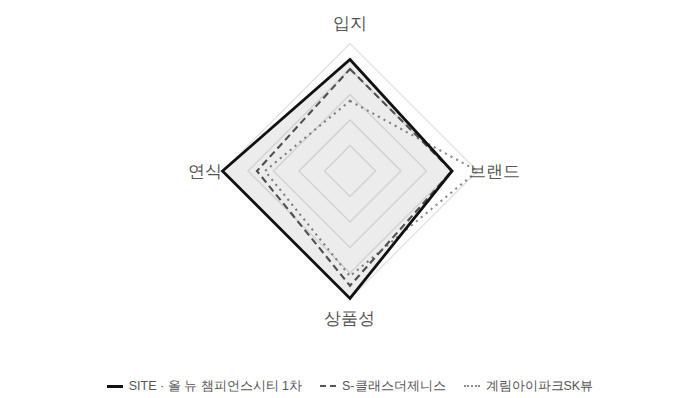
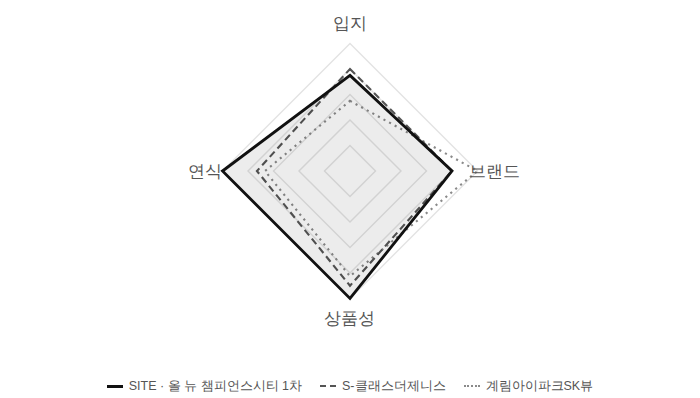
올 뉴 챔피언스시티 1차 입지 점수 최종 조정 (35→30) — 재산출
랜드마크급 인프라 반영을 더 보수적으로 잡아 입지 점수를 15점에서
30점(35점 아님)으로 최종 확정. 종합평점 91→86으로 낮아지면서
S-클래스더제니스(32점)가 다시 근소하게 입지 우위를 유지.

재계산 결과 적정가 7.91억→7.55억, 예상 프리미엄 -0.12억→-0.48억
(고평가 약 2%→6%)로, "사실상 적정가"에서 "소폭 고평가"로 결론 조정.
표·설명·레이더·브릿지 차트·강점/리스크·결론 문단 전부 갱신. 네이버
복사용 PNG 재캡처, 관련 포스팅 3건 동기화.

Claude-Session: https://claude.ai/code/session_014bA9ezyn55FbTPVbxFkuZW

Changed region(s): [[0.33, 0.1508, 0.63, 0.4221], [0.63, 0.392, 0.66, 0.4221]]

diff --git a/posts/allnew-champions-city-1cha.html b/posts/allnew-champions-city-1cha.html
@@ -200,7 +200,7 @@
 <div class="wrap">
 
   <div class="titleblock">
-    <h1>광주 - 올 뉴 챔피언스시티 1차 | 옛 방직공장 부지 최고 49층 3,216세대, 예상 프리미엄은 -1천만</h1>
+    <h1>광주 - 올 뉴 챔피언스시티 1차 | 옛 방직공장 부지 최고 49층 3,216세대, 예상 프리미엄은 -0.5억</h1>
   </div>
   <div class="byline">
     <span class="avatar">브</span>
@@ -226,17 +226,17 @@
     <div class="stat-pair">
       <div class="stat-box">
         <div class="sk">브동산 적정가 (84㎡)</div>
-        <div class="sv">7.91<span style="font-size:15px;font-weight:400;"> 억원</span></div>
-        <div class="sbar"><div style="width:98%"></div></div>
+        <div class="sv">7.55<span style="font-size:15px;font-weight:400;"> 억원</span></div>
+        <div class="sbar"><div style="width:94%"></div></div>
       </div>
       <div class="stat-box">
         <div class="sk">실제 분양가 (84A, 공개범위 중간값)</div>
         <div class="sv">8.03<span style="font-size:15px;font-weight:400;"> 억원</span></div>
         <div class="sbar"><div style="width:100%"></div></div>
-        <span class="delta">약 2% 고평가</span>
+        <span class="delta">약 6% 고평가</span>
       </div>
     </div>
-    <p class="premium" style="margin-top:-8px;">예상 프리미엄 -0.12억</p>
+    <p class="premium" style="margin-top:-8px;">예상 프리미엄 -0.48억</p>
 
     <div class="map-wrap">
       <svg viewBox="0 0 640 460" role="img" aria-label="올 뉴 챔피언스시티 1차 사업지, 비교단지 2곳, 배정초등학교, 주요 시설 위치를 나타낸 브동산 자체 제작 개략도">
@@ -315,7 +315,7 @@
         </g>
         <polygon points="120.00,70.50 210.00,120.00 120.00,194.25 60.00,120.00" fill="none" stroke="#8A8A8A" stroke-width="1.5" stroke-dasharray="1.5 3"/>
         <polygon points="120.00,48.00 192.00,120.00 120.00,201.00 54.30,120.00" fill="none" stroke="#555555" stroke-width="1.5" stroke-dasharray="5 3"/>
-        <polygon points="120.00,41.25 192.00,120.00 120.00,210.00 30.00,120.00" fill="rgba(17,17,17,0.08)" stroke="#111111" stroke-width="2"/>
+        <polygon points="120.00,52.50 192.00,120.00 120.00,210.00 30.00,120.00" fill="rgba(17,17,17,0.08)" stroke="#111111" stroke-width="2"/>
         <text x="120" y="20" text-anchor="middle" font-size="12" fill="#555555">입지</text>
         <text x="222" y="124" text-anchor="middle" font-size="12" fill="#555555">브랜드</text>
         <text x="120" y="228" text-anchor="middle" font-size="12" fill="#555555">상품성</text>
@@ -331,28 +331,29 @@
     <div class="bridge-wrap">
 <svg viewBox="0 0 640 310" role="img" aria-label="비교단지 현재시세가 평점·연령 보정을 거쳐 SITE 적정가로 이어지는 과정을 보여주는 브동산 적정가 산출 브릿지 차트">
 <rect x="0" y="0" width="640" height="310" fill="#FAFAFA"/>
-<line x1="496.58" y1="20" x2="496.58" y2="219" stroke="#BBBBBB" stroke-width="1" stroke-dasharray="3 3"/>
+<line x1="462.97" y1="20" x2="462.97" y2="219" stroke="#BBBBBB" stroke-width="1" stroke-dasharray="3 3"/>
 <text x="0" y="36.00" font-size="12.5" font-weight="800" fill="#111111">임동 S-클래스더제니스</text>
-<text x="431.02" y="52.00" text-anchor="middle" font-size="10.5" fill="#8A8A8A">평점·연령 ×1.128</text>
-<line x1="390.10" y1="66.00" x2="471.93" y2="66.00" stroke="#555555" stroke-width="1.5"/>
+<text x="414.09" y="52.00" text-anchor="middle" font-size="10.5" fill="#8A8A8A">평점·연령 ×1.075</text>
+<line x1="390.10" y1="66.00" x2="438.07" y2="66.00" stroke="#555555" stroke-width="1.5"/>
 <circle cx="390.10" cy="66.00" r="5.5" fill="#FFFFFF" stroke="#555555" stroke-width="2"/>
-<rect x="466.93" y="61.00" width="10" height="10" fill="#111111"/>
-<polygon points="466.93,66.00 458.93,63.00 458.93,69.00" fill="#555555"/>
-<text x="380.10" y="84.00" text-anchor="end" font-size="11" font-weight="400" fill="#8A8A8A">6.78억</text><text x="481.93" y="84.00" text-anchor="start" font-size="11" font-weight="700" fill="#111111">7.65억</text>
+<rect x="433.07" y="61.00" width="10" height="10" fill="#111111"/>
+<polygon points="433.07,66.00 425.07,63.00 425.07,69.00" fill="#555555"/>
+<text x="380.10" y="84.00" text-anchor="end" font-size="11" font-weight="400" fill="#8A8A8A">6.78억</text><text x="448.07" y="84.00" text-anchor="start" font-size="11" font-weight="700" fill="#111111">7.29억</text>
 <text x="0" y="122.00" font-size="12.5" font-weight="800" fill="#111111">계림아이파크SK뷰</text>
-<text x="447.00" y="138.00" text-anchor="middle" font-size="10.5" fill="#8A8A8A">평점·연령 ×1.237</text>
-<line x1="372.77" y1="152.00" x2="521.22" y2="152.00" stroke="#555555" stroke-width="1.5"/>
+<text x="430.32" y="138.00" text-anchor="middle" font-size="10.5" fill="#8A8A8A">평점·연령 ×1.184</text>
+<line x1="372.77" y1="152.00" x2="487.86" y2="152.00" stroke="#555555" stroke-width="1.5"/>
 <circle cx="372.77" cy="152.00" r="5.5" fill="#FFFFFF" stroke="#555555" stroke-width="2"/>
-<rect x="516.22" y="147.00" width="10" height="10" fill="#111111"/>
-<polygon points="516.22,152.00 508.22,149.00 508.22,155.00" fill="#555555"/>
-<text x="362.77" y="170.00" text-anchor="end" font-size="11" font-weight="400" fill="#8A8A8A">6.6억</text><text x="531.22" y="170.00" text-anchor="start" font-size="11" font-weight="700" fill="#111111">8.17억</text>
+<rect x="482.86" y="147.00" width="10" height="10" fill="#111111"/>
+<polygon points="482.86,152.00 474.86,149.00 474.86,155.00" fill="#555555"/>
+<text x="362.77" y="170.00" text-anchor="end" font-size="11" font-weight="400" fill="#8A8A8A">6.6억</text><text x="497.86" y="170.00" text-anchor="start" font-size="11" font-weight="700" fill="#111111">7.81억</text>
 <line x1="0" y1="194" x2="640" y2="194" stroke="#E3E3E3" stroke-width="1"/>
 <text x="0" y="218" font-size="12.5" font-weight="800" fill="#111111">올 뉴 챔피언스시티 1차 (SITE)</text>
-<text x="502.44" y="234" text-anchor="middle" font-size="11" font-weight="800" fill="#111111">예상 프리미엄 -0.12억</text>
-<line x1="496.58" y1="248" x2="508.30" y2="248" stroke="#111111" stroke-width="2"/>
+<text x="485.64" y="234" text-anchor="middle" font-size="11" font-weight="800" fill="#111111">예상 프리미엄 -0.48억</text>
+<line x1="462.97" y1="248" x2="508.30" y2="248" stroke="#111111" stroke-width="2"/>
 <circle cx="508.30" cy="248" r="5.5" fill="#FFFFFF" stroke="#111111" stroke-width="2"/>
-<path d="M 490.58 248 L 496.58 242 L 502.58 248 L 496.58 254 Z" fill="#111111"/>
-<text x="482.58" y="270" text-anchor="end" font-size="11" font-weight="800" fill="#111111">적정가 7.91억</text>
+<path d="M 456.97 248 L 462.97 242 L 468.97 248 L 462.97 254 Z" fill="#111111"/>
+<polygon points="468.97,248.00 476.97,245.00 476.97,251.00" fill="#111111"/>
+<text x="452.97" y="270" text-anchor="end" font-size="11" font-weight="800" fill="#111111">적정가 7.55억</text>
 <text x="518.30" y="270" text-anchor="start" font-size="11" font-weight="400" fill="#8A8A8A">실제분양가 8.03억</text>
 <text x="0" y="298" font-size="10.5" fill="#8A8A8A">○=현재시세/실제분양가 · ■=평점·연령 보정 후 보정가격 · ◆=SITE 적정가(두 보정가격 평균) · 점선=적정가 기준선 · ▶=보정·산출 방향(현재시세→보정가격, 분양가→적정가)</text>
 </svg>
@@ -363,27 +364,27 @@
       <table>
         <thead><tr><th>평가 항목</th><th>SITE · 올뉴챔피언스시티1차<br><span class="note" style="margin-top:2px;">(우미건설·신영씨앤디·3,216세대·2030년 11월 입주예정)</span></th><th>S-클래스더제니스<br><span class="note" style="margin-top:2px;">(중흥토건+두산건설·2,240세대·2024년 2월 입주)</span></th><th>계림아이파크SK뷰<br><span class="note" style="margin-top:2px;">(HDC현대산업개발+SK에코플랜트·1,715세대·2022년 7월 입주)</span></th></tr></thead>
         <tbody>
-          <tr><td>입지(40)</td><td class="figure">35</td><td class="figure">32</td><td class="figure">22</td></tr>
+          <tr><td>입지(40)</td><td class="figure">30</td><td class="figure">32</td><td class="figure">22</td></tr>
           <tr><td>브랜드(20)</td><td class="figure">16</td><td class="figure">16</td><td class="figure">20</td></tr>
           <tr><td>상품성(40)</td><td class="figure">40</td><td class="figure">36</td><td class="figure">33</td></tr>
-          <tr><td>종합평점</td><td class="figure"><b>91</b></td><td class="figure">84</td><td class="figure">75</td></tr>
+          <tr><td>종합평점</td><td class="figure"><b>86</b></td><td class="figure">84</td><td class="figure">75</td></tr>
           <tr><td>연식가산율</td><td class="figure">기준(입주예정)</td><td class="figure">6년9개월차·×1.054</td><td class="figure">8년4개월차·×1.067</td></tr>
           <tr><td>84㎡ 기준가</td><td class="figure">-</td><td class="figure">6.78억(2026.8~9 실거래 5건 평균)</td><td class="figure">6.6억(리치고 34평형 시세, 2026.09.28 확인)</td></tr>
-          <tr><td>보정가격</td><td class="figure">-</td><td class="figure">7.65억</td><td class="figure">8.17억</td></tr>
+          <tr><td>보정가격</td><td class="figure">-</td><td class="figure">7.29억</td><td class="figure">7.81억</td></tr>
         </tbody>
       </table>
     </div>
     <p class="note">평점은 브동산이 교통·주거·교육 여건과 브랜드·세대수·조망·주차 등을 종합해 자체 산정한 값입니다. SITE(우미건설·신영씨앤디)와 S-클래스더제니스(중흥토건+두산건설)는 브동산 브랜드 등급상 '대기업 중위'로 동일하게 평가했고, 계림아이파크SK뷰(HDC현대산업개발+SK에코플랜트)는 '아이파크'·'SK뷰' 모두 '대기업 상위'에 해당해 더 높게(20점) 평가했습니다. 84㎡ 기준가는 S-클래스더제니스는 호갱노노·국토교통부 실거래가(2026.09.27 확인), 계림아이파크SK뷰는 리치고(richgo.ai) 평형별 시세(34평형, 2026.09.28 확인)를 인용했으며, SITE 분양가는 84A 타입의 공개된 분양가 범위(7.35억~8.70억)의 중간값입니다. 전남광주는 행정상 '전남광주통합특별시'로 표기되지만, 브동산 평점 체계에서는 종전 광주광역시와 동일한 '광역시(지하철 중심)' 배점을 적용했습니다.</p>
 
     <ul class="plain">
-      <li><b>입지:</b> SITE는 서림초등학교를 도보 7분(458m)에 이용할 수 있고 신세계·이마트 광주점도 차량 4분 거리지만, 정작 도시철도(양동시장역)까지는 1.3km·도보 19분으로 다소 거리가 있어 원래 낮게 평가했습니다. 다만 같은 부지 안에 헤르초크&amp;드뫼롱이 설계한 '더현대 광주' 백화점과 특급호텔이 함께 들어선다는 점은 단순한 생활 인프라를 넘어 거의 랜드마크급 인프라를 끼고 있는 것으로 판단해, 입지 점수를 15점에서 35점으로 상향 조정했습니다(2026.09.28, 편집 조정). 이 조정으로 역세권에서 앞섰던 같은 임동의 S-클래스더제니스(입지 32점)보다도 SITE의 입지 점수가 근소하게 더 높아졌습니다.</li>
+      <li><b>입지:</b> SITE는 서림초등학교를 도보 7분(458m)에 이용할 수 있고 신세계·이마트 광주점도 차량 4분 거리지만, 정작 도시철도(양동시장역)까지는 1.3km·도보 19분으로 다소 거리가 있어 원래 낮게 평가했습니다. 다만 같은 부지 안에 헤르초크&amp;드뫼롱이 설계한 '더현대 광주' 백화점과 특급호텔이 함께 들어선다는 점은 단순한 생활 인프라를 넘어 거의 랜드마크급 인프라를 끼고 있는 것으로 판단해, 입지 점수를 15점에서 30점으로 상향 조정했습니다(2026.09.28, 편집 조정). 그럼에도 역에서 150m 초역세권인 같은 임동의 S-클래스더제니스(입지 32점)가 여전히 근소하게 앞섭니다.</li>
       <li><b>브랜드:</b> 우미건설·신영씨앤디(SITE)와 중흥토건+두산건설(S-클래스더제니스)은 브동산 등급상 동일한 '대기업 중위'로 평가해 두 곳의 브랜드 점수 차이는 없습니다. 반면 계림아이파크SK뷰는 '아이파크'·'SK뷰' 모두 브동산 등급상 '대기업 상위'에 해당해 오히려 SITE·S-클래스더제니스보다 브랜드 점수가 높습니다(20점).</li>
       <li><b>상품성:</b> SITE는 3,216세대 초대형 규모에 최고 49층 랜드마크, 광주 최대 규모(약 1.2만㎡) 커뮤니티에 더해 같은 챔피언스시티 부지에 더현대 광주와 특급호텔·업무시설까지 함께 들어서는 복합개발이라는 상징성을 반영해 상품성 점수를 40점(만점)으로 상향 조정했습니다(2026.09.28, 편집 조정). 2024년 준공한 S-클래스더제니스는 '광주 첫 하이엔드'를 표방하는 신축 대단지지만 단일 주거단지라는 점에서 SITE보다는 낮게, 2022년 준공한 계림아이파크SK뷰는 1,715세대 대단지 신축이지만 마찬가지로 순수 주거단지라 SITE보다는 낮게 평가했습니다.</li>
-      <li><b>브동산 적정가 기준으로는 사실상 적정가 수준(약 2%, 오차범위 내).</b> 비교단지를 입지·연식이 더 비슷한 계림아이파크SK뷰(2022년 입주, 1,715세대)로 교체해 다시 산출한 결과, S-클래스더제니스·계림아이파크SK뷰 두 곳의 보정가격 평균은 7.91억으로 SITE의 84A 분양가(중간값 8.03억)와 거의 일치합니다.</li>
-      <li><b>실제 청약 성적은 양극화됐습니다.</b> 일반공급 2,932가구 모집에 3,641명이 접수해 평균 1.24대 1을 기록했지만, 84A 타입은 5.47대 1로 흥행한 반면 84C·84E·103B 등 다른 타입은 2순위에서도 미달됐습니다. 브동산 모형상으로는 분양가가 사실상 적정 수준인데도 이런 쏠림·미달이 나타난 걸 보면, 가격 자체보다 다른 요인이 더 크게 작용했을 가능성이 있습니다.</li>
+      <li><b>브동산 적정가 기준으로는 소폭 고평가 신호(약 6%).</b> 비교단지를 입지·연식이 더 비슷한 계림아이파크SK뷰(2022년 입주, 1,715세대)로 교체해 다시 산출한 결과, S-클래스더제니스·계림아이파크SK뷰 두 곳의 보정가격 평균은 7.55억으로 SITE의 84A 분양가(중간값 8.03억)보다 다소 낮습니다.</li>
+      <li><b>실제 청약 성적은 양극화됐습니다.</b> 일반공급 2,932가구 모집에 3,641명이 접수해 평균 1.24대 1을 기록했지만, 84A 타입은 5.47대 1로 흥행한 반면 84C·84E·103B 등 다른 타입은 2순위에서도 미달됐습니다. 브동산 모형상 소폭 고평가 신호와 '쏠림·미달 혼재'라는 실제 청약 결과가 같은 방향을 가리키고 있습니다.</li>
     </ul>
 
-    <p>종합하면 브동산 모형상으로는 이 단지의 84A 분양가가 비교단지 대비 사실상 적정 수준으로 나타났습니다. 다만 '더현대 광주'라는 대형 상업시설이 같은 부지에 들어선다는 점은 현재의 시세 비교로는 온전히 반영되지 않는 미래 가치이므로, 실제로는 이보다 더 유리한 조건일 가능성도 함께 고려할 필요가 있습니다.</p>
+    <p>종합하면 브동산 모형상으로는 이 단지의 84A 분양가가 비교단지 대비 소폭 높게 책정된 것으로 나타났습니다. 다만 '더현대 광주'라는 대형 상업시설이 같은 부지에 들어선다는 점은 현재의 시세 비교로는 온전히 반영되지 않는 미래 가치이므로, 이 격차를 해석할 때 함께 고려할 필요가 있습니다.</p>
   </section>
 
   <section id="s2">
@@ -507,7 +508,7 @@
 
     <p>임동·인근 매곡동·동림동에는 힐스테이트중외공원2·3블록(각 785·681세대, 2026년 12월 입주예정)과 운암산공원진아리채그랑뷰(414세대, 2026년 10월 입주예정) 등 신축 공급이 비슷한 시기에 몰려 있습니다. 다만 이들은 SITE와 다른 생활권(매곡동·동림동)이라 직접 경쟁 관계로 보기는 어렵습니다. 반면 SITE와 같은 임동 생활권의 S-클래스더제니스(2024년 입주)는 이미 안정적으로 거래되고 있고, 인접한 동구 계림동의 계림아이파크SK뷰(2022년 입주, 1,715세대) 역시 신축 대단지로 자리 잡아 SITE 입주 시점(2030년)까지 비교할 수 있는 시세 기준을 제공합니다.</p>
 
-    <p>실제로 SITE는 평균 1.24대 1로 전체적으로는 미달을 면했지만, 84A(5.47대 1)에만 수요가 몰리고 84C·84E·103B 등 나머지 타입은 2순위에서도 미달됐습니다. 브동산 모형상으로는 분양가가 비교단지 대비 사실상 적정 수준이었는데도 이런 '일부 쏠림·전반 부진'이 나타난 것은, 가격 자체보다 8억원대 후반에 이르는 절대 금액 부담이나 4년 이상 남은 긴 입주 대기 기간 같은 다른 요인이 더 크게 작용했을 가능성을 시사합니다. '더현대 광주' 개점(2028~2029년 목표)이라는 대형 호재가 아직 가격에 온전히 반영되지 않았을 가능성도 함께 고려해야 합니다.</p>
+    <p>실제로 SITE는 평균 1.24대 1로 전체적으로는 미달을 면했지만, 84A(5.47대 1)에만 수요가 몰리고 84C·84E·103B 등 나머지 타입은 2순위에서도 미달됐습니다. 브동산 모형상 소폭 고평가 신호(약 6%)와 이러한 '일부 쏠림·전반 부진'이 같은 방향을 가리키고 있어, 8억원대 후반에 이르는 높은 분양가가 부담 요인으로 작용했을 가능성이 있습니다. 다만 '더현대 광주' 개점(2028~2029년 목표)이라는 대형 호재가 아직 가격에 온전히 반영되지 않았을 가능성도 함께 고려해야 합니다.</p>
   </section>
 
   <section id="s5">
@@ -520,12 +521,12 @@
           <li>서림초등학교 도보 7분, 광주 최대 규모(약 1.2만㎡) 통합 커뮤니티</li>
           <li>84A 타입은 5.47대 1로 청약 흥행, 계약금 부담도 낮음(5%)</li>
           <li>양동3구역·누문구역 재개발과 함께 임동 일대 전체가 재편되는 성장축</li>
-          <li>비교단지 재평가 결과 브동산 모형상 분양가가 사실상 적정 수준(약 2% 차이)</li>
         </ul>
       </div>
       <div class="box">
         <h3>리스크</h3>
         <ul class="plain">
+          <li>브동산 모형상 비교단지 대비 약 6% 고평가 신호</li>
           <li>84C·84E·103B 등 다수 타입이 2순위에서도 미달</li>
           <li>도시철도(양동시장역)까지 1.3km로 도보 접근성은 약함</li>
           <li>입주까지 4년 이상 남은 후분양 이전 단계라, '더현대 광주' 등 호재의 실현 시점 리스크 존재</li>
@@ -533,7 +534,7 @@
         </ul>
       </div>
     </div>
-    <p>종합하면 이 단지는 더현대 광주와 함께 조성되는 초대형 복합개발이라는 상징성이 뚜렷하고, 브동산 모형상으로도 비교단지 대비 분양가가 사실상 적정 수준인 것으로 나타났습니다. 다만 84A를 제외한 타입의 청약 부진은 모형상 가격 신호와는 별개로, 절대 금액 부담이나 긴 입주 대기 기간 같은 다른 요인이 작용했을 가능성을 보여줍니다. 아직 조성 전인 더현대 광주의 미래 가치가 현재의 시세 비교에는 온전히 녹아있지 않다는 점까지 고려하면, 장기적 관점에서는 오히려 여지가 있는 청약으로 볼 수 있습니다.</p>
+    <p>종합하면 이 단지는 더현대 광주와 함께 조성되는 초대형 복합개발이라는 상징성은 뚜렷하지만, 브동산 모형상으로는 비교단지 대비 분양가가 소폭 높게 책정된 것으로 나타났고, 84A를 제외한 타입의 청약 부진도 이를 뒷받침합니다. 다만 아직 조성 전인 더현대 광주의 미래 가치가 현재의 시세 비교에는 온전히 녹아있지 않다는 점도 감안해, 장기적 관점과 단기 고평가 신호를 함께 살펴 신중하게 접근할 필요가 있습니다.</p>
   </section>
 
   <section id="ad">

diff --git a/posts-data.js b/posts-data.js
@@ -156,12 +156,12 @@ const POSTS = [
     category: "realestate",
     region: "광주",
     tag: "청약 언박싱 No.025",
-    title: "광주 - 올 뉴 챔피언스시티 1차 | 옛 방직공장 부지 최고 49층 3,216세대, 예상 프리미엄은 -1천만",
+    title: "광주 - 올 뉴 챔피언스시티 1차 | 옛 방직공장 부지 최고 49층 3,216세대, 예상 프리미엄은 -0.5억",
     date: "2026-09-28",
     dateLabel: "2026. 9. 28",
     url: "posts/allnew-champions-city-1cha.html",
     preview: `
-      <p>광주 북구 임동, 옛 전방·일신방직 공장 부지에 우미건설·신영씨앤디가 짓는 올 뉴 챔피언스시티 1차는 지하 3층~지상 최고 49층, 12개동, 총 3,216세대 규모의 매머드급 복합개발 단지다. 같은 부지에 더현대 광주와 특급호텔·업무시설까지 들어서는 복합개발 상징성을 반영해 상품성 점수를 만점으로, 입지 점수도 15→35점으로 상향 조정했다(2026.09.28). 브동산이 S-클래스더제니스·계림아이파크SK뷰 두 단지의 84㎡ 가격을 보정해 산출한 적정가는 7.91억원으로, 실제 분양가(중간값 8.03억원)와 약 2% 차이(사실상 적정가 수준)였다.</p>
+      <p>광주 북구 임동, 옛 전방·일신방직 공장 부지에 우미건설·신영씨앤디가 짓는 올 뉴 챔피언스시티 1차는 지하 3층~지상 최고 49층, 12개동, 총 3,216세대 규모의 매머드급 복합개발 단지다. 같은 부지에 더현대 광주와 특급호텔·업무시설까지 들어서는 복합개발 상징성을 반영해 상품성 점수를 만점으로, 입지 점수도 15→30점으로 상향 조정했다(2026.09.28). 브동산이 S-클래스더제니스·계림아이파크SK뷰 두 단지의 84㎡ 가격을 보정해 산출한 적정가는 7.55억원으로, 실제 분양가(중간값 8.03억원)보다 약 6% 낮았다.</p>
     `
   },
   {

diff --git a/posts/hoban-summit-pungmu-3.html b/posts/hoban-summit-pungmu-3.html
@@ -576,7 +576,7 @@
       </a>
       <a class="related-item" href="allnew-champions-city-1cha.html">
         <span class="r-tag">청약 언박싱 No.025</span>
-        <span class="r-title">광주 - 올 뉴 챔피언스시티 1차 | 옛 방직공장 부지 최고 49층 3,216세대, 예상 프리미엄은 -1천만</span>
+        <span class="r-title">광주 - 올 뉴 챔피언스시티 1차 | 옛 방직공장 부지 최고 49층 3,216세대, 예상 프리미엄은 -0.5억</span>
       </a>
     </div>
     <div class="list-more"><a class="btn-list" href="https://brandongsan.com/realestate.html">청약·분양 목록 전체보기</a></div>

diff --git a/posts/pentahills-w-1danji.html b/posts/pentahills-w-1danji.html
@@ -614,7 +614,7 @@
       </a>
       <a class="related-item" href="allnew-champions-city-1cha.html">
         <span class="r-tag">청약 언박싱 No.025</span>
-        <span class="r-title">광주 - 올 뉴 챔피언스시티 1차 | 옛 방직공장 부지 최고 49층 3,216세대, 예상 프리미엄은 -1천만</span>
+        <span class="r-title">광주 - 올 뉴 챔피언스시티 1차 | 옛 방직공장 부지 최고 49층 3,216세대, 예상 프리미엄은 -0.5억</span>
       </a>
     </div>
     <div class="list-more"><a class="btn-list" href="https://brandongsan.com/realestate.html">청약·분양 목록 전체보기</a></div>

diff --git a/posts/gimhae-sinmun-central-ipark.html b/posts/gimhae-sinmun-central-ipark.html
@@ -550,7 +550,7 @@
     <div class="related-list">
       <a class="related-item" href="allnew-champions-city-1cha.html">
         <span class="r-tag">청약 언박싱 No.025</span>
-        <span class="r-title">광주 - 올 뉴 챔피언스시티 1차 | 옛 방직공장 부지 최고 49층 3,216세대, 예상 프리미엄은 -1천만</span>
+        <span class="r-title">광주 - 올 뉴 챔피언스시티 1차 | 옛 방직공장 부지 최고 49층 3,216세대, 예상 프리미엄은 -0.5억</span>
       </a>
       <a class="related-item" href="pentahills-w-1danji.html">
         <span class="r-tag">청약 언박싱 No.031</span>
